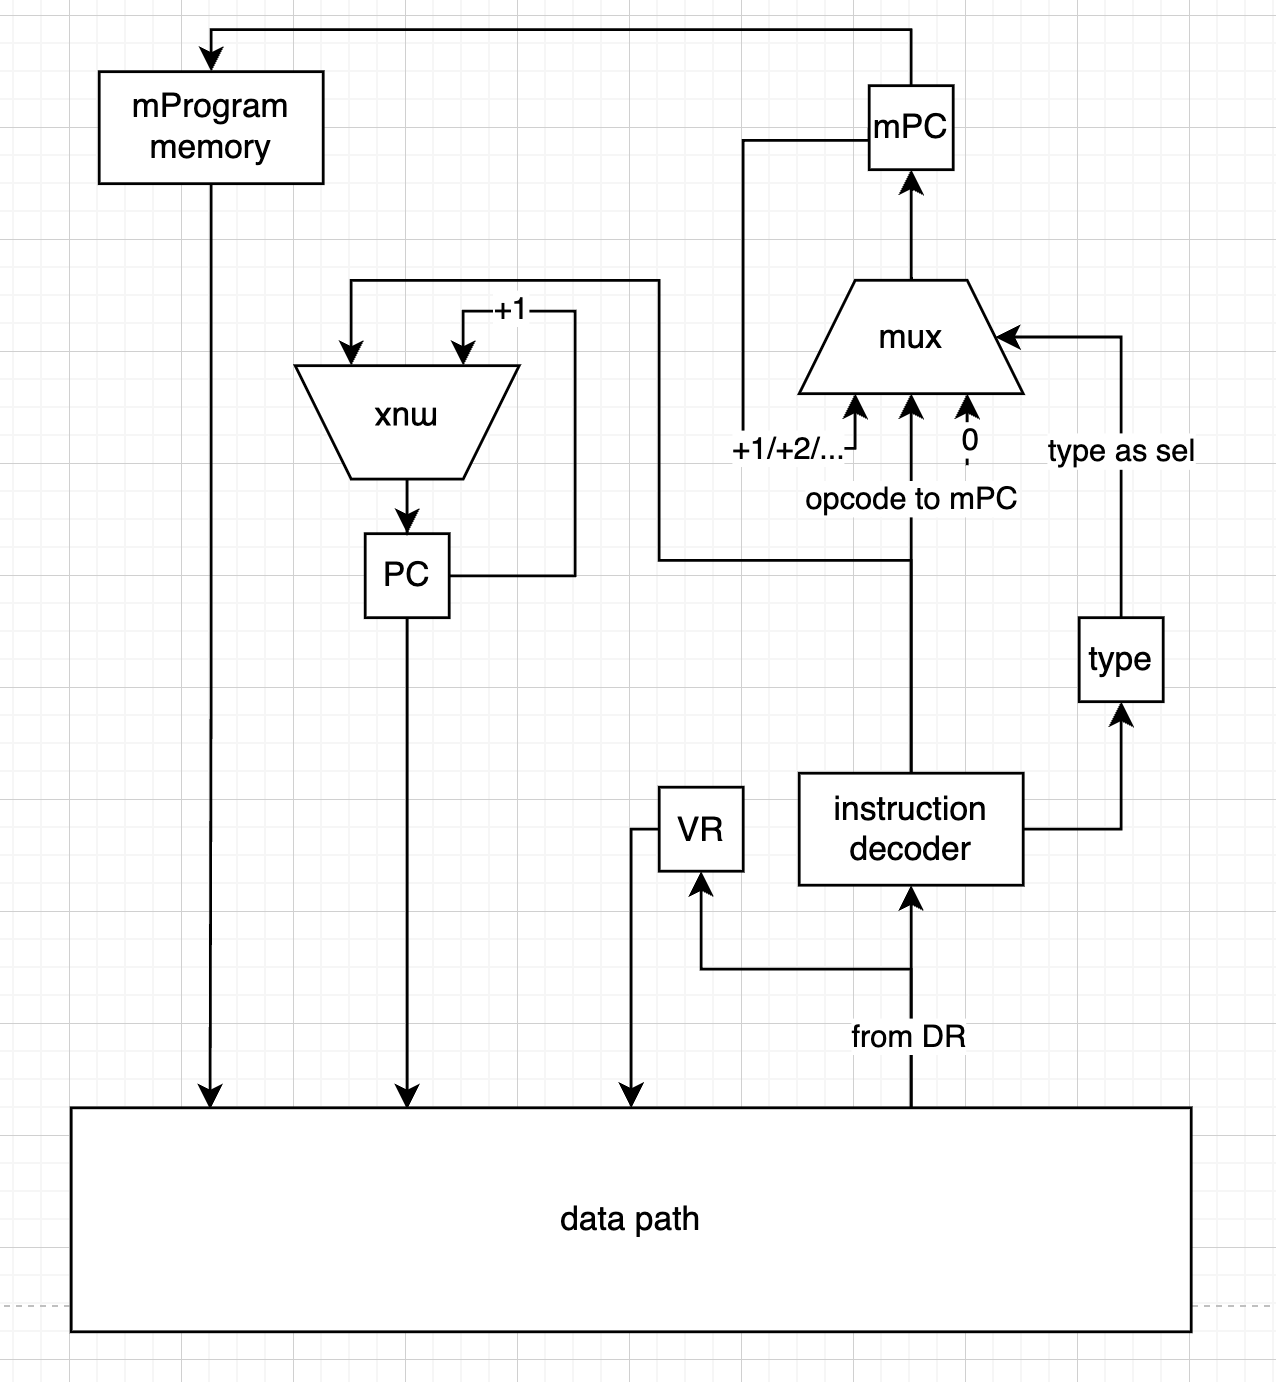
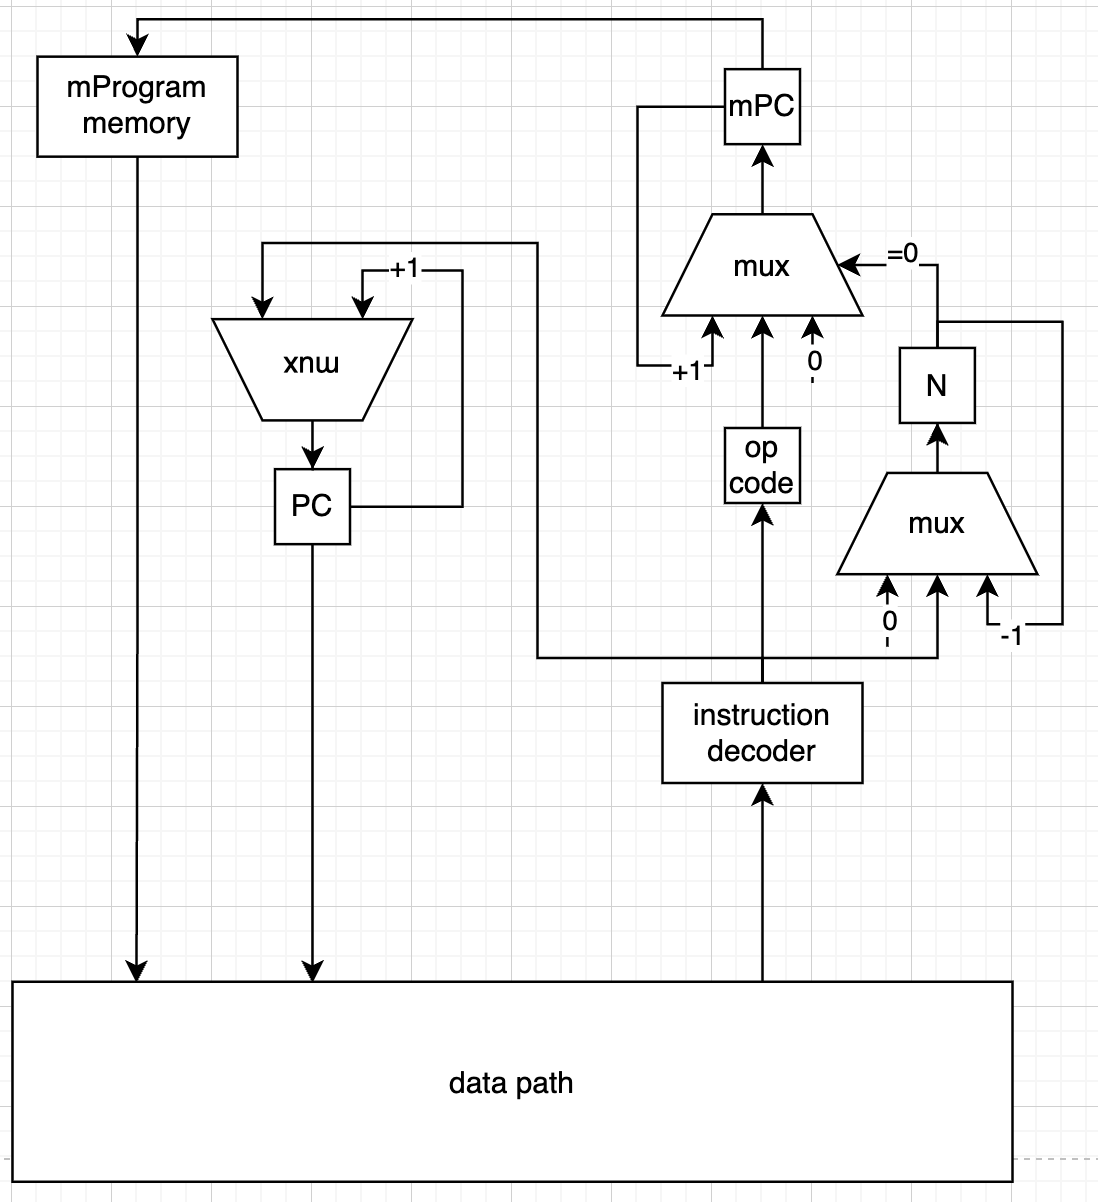
add N to CU

diff --git a/machine.py b/machine.py
@@ -23,7 +23,8 @@ class Signal(Enum):
     READ : int = 8
     WRITE : int = 9
 
-    LATCH_MEMORY : int = 15
+    LATCH_MEMORY : int = 14
+    LATCH_N : int = 15
 
     ZERO: int = 10
 
@@ -43,6 +44,8 @@ class Sel:
         OPCODE : int = 0
         ZERO : int = 1
         TYPE : int = 2
+        N : int = 3
+        PLUS_1 : int = 4
     class LeftALU(Enum):
         REGISTER : int = 0
         VALUE : int = 1
@@ -61,6 +64,11 @@ class Sel:
         VALUE : int = 1
         ALU : int = 2
         DATA_REGISTER : int = 3
+    class N(Enum):
+        DECODER : int = 0
+        MINUS_1 : int = 1
+        ZERO : int = 2
+
 
 
 class ALU:
@@ -202,6 +210,7 @@ class ControlUnit:
         self.n : int = 0
 
         self.signals : dict[Signal, Callable] = {
+            Signal.LATCH_N : self.latch_n,
             Signal.LATCH_INSTRUCTION : self.latch_instruction,
             Signal.LATCH_PROGRAM_COUNTER : self.latch_program_counter,
             Signal.LATCH_MPROGRAM_COUNTER : self.latch_mprogram_counter,
@@ -411,6 +420,16 @@ class ControlUnit:
                 (Signal.LATCH_MPROGRAM_COUNTER, Sel.MProgramCounter.ZERO),
 
                 # ADD reg ()()
+                (Signal.LATCH_MPROGRAM_COUNTER, Sel.MProgramCounter.TYPE), # jmp to type
+
+                # ADD mem ()()
+                (Signal.LATCH_PROGRAM_COUNTER, Sel.ProgramCounter.NEXT),
+                (Signal.LATCH_DATA_REGISTER, Sel.DataRegister.MEMORY),
+                (Signal.LATCH_RIGHT_ALU, Sel.RightALU.DATA_REGISTER),
+                (Signal.LATCH_LEFT_ALU, Sel.LeftALU.REGISTER),
+                (Signal.EXECUTE_ALU, ALU.Operations.ADD),
+                (Signal.LATCH_REGISTER, Sel.Register.ALU), # mem(1) + dst_reg -> dst_reg
+
 
         ]
 
@@ -464,18 +483,35 @@ class ControlUnit:
         if sel == Sel.ProgramCounter.NEXT:
             self.program_counter += 1
 
-    def latch_mprogram_counter(self, sel: Sel.MProgramCounter):
+    def latch_mprogram_counter(self, sel : Sel.MProgramCounter):
         assert isinstance(sel, Sel.MProgramCounter), "selector must be MProgramCounter selector"
 
         if sel == Sel.MProgramCounter.ZERO:
             self.mprogram_counter = 0
+        if sel == Sel.MProgramCounter.PLUS_1:
+            self.mprogram_counter += 1
         if sel == Sel.MProgramCounter.OPCODE:
             self.mprogram_counter = self.opcode.value
         if sel == Sel.MProgramCounter.TYPE:
             self.mprogram_counter += self.terms[0].value
+        if self == Sel.MProgramCounter.N:
+            if self.n == 0:
+                self.mprogram_counter += 1
+            else:
+                self.mprogram_counter = self.opcode.value
 
     def latch_instruction(self):
         self.decode(self.datapath.data_register)
+
+    def latch_n(self, sel : Sel.N):
+        assert isinstance(sel, Sel.N), "selector must be N selector"
+
+        if sel == Sel.N.DECODER:
+            self.n = self.terms[1]
+        if sel == Sel.N.MINUS_1:
+            self.n -= 1
+        if sel == Sel.N.ZERO:
+            self.n = 0
 
     def execute_signal(self, signal : Signal, *arg):
         self.signals[signal](*arg)
@@ -488,6 +524,7 @@ class ControlUnit:
             self.execute_signal(signal, maybe_sel[0])
         else:
             self.execute_signal(signal)
+
         if self.mprogram_counter == mpc_now:
             self.mprogram_counter += 1
 
